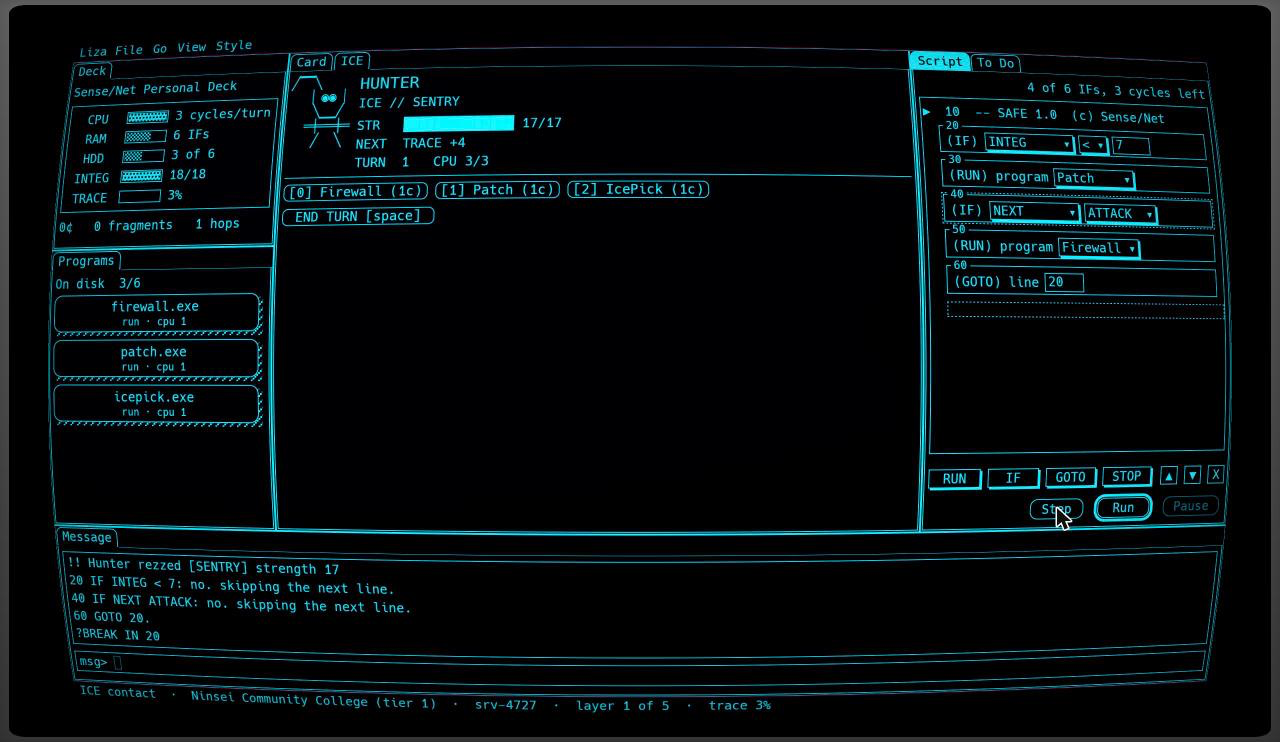
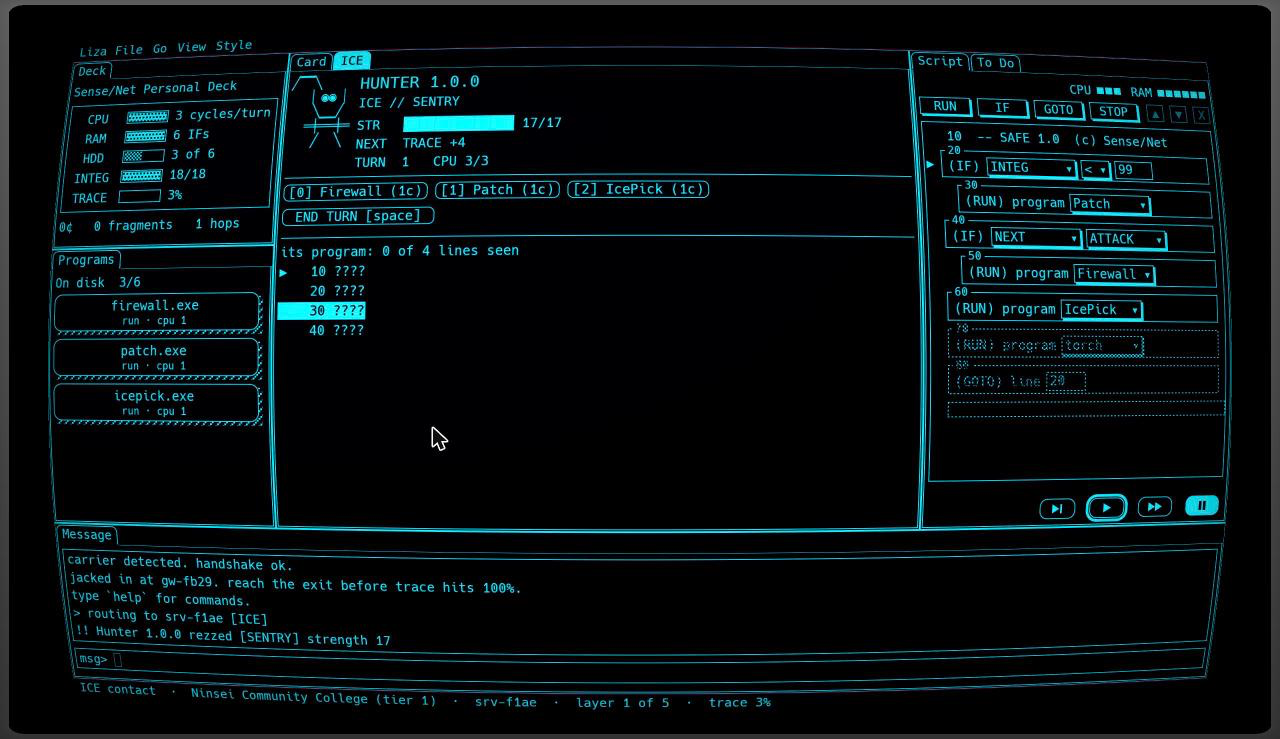
docs: step 5 — docs and shots
The docs say what the card now does and the shots show it: the Sense/Net's Script card in a
fight on paper white and on Synthwave (VGA), paused with starved lines greyed and the IFs'
lines indented, and again with fast-forward held.

diff --git a/crates/app/src/stack.rs b/crates/app/src/stack.rs
@@ -2,7 +2,8 @@
 //! field of meters that fill with darker patterns as they rise, programs are rounded buttons
 //! with a hatched shadow, the terminal is the Message box under a scrolling log field, and a
 //! fight puts the Script card under the ICE: the deck's program as a stack of operator blocks
-//! with fields, after HyperCard 1.2's button script editor, and Step, Run and Pause. What the
+//! with fields, after HyperCard 1.2's button script editor, under its CPU and RAM gauges, and a
+//! hi-fi's transport (Step, Play, fast-forward, Pause). What the
 //! card shows is core's (`ninsei_core::stack_fight`); this only draws it and routes edits. Two
 //! theme colours (lit ink on dark paper); anything it doesn't draw is Classic.
 

diff --git a/docs/architecture.md b/docs/architecture.md
@@ -92,7 +92,7 @@ Monitors and decks live in `data/hub/hardware.ron` (`HardwareDef::validate`); wh
 
 ## The run screen
 
-- **Chromes are plug-ins.** A firmware's `hardware::Chrome` picks how the run screen is dressed; `crates/app/src/chrome.rs` maps it to a `ChromeView` (`chrome::view`): one method per pane, plus tab titles, menus (arranged from shared `MenuPart`s), the status line, an optional bar over the panes, under the menu bar, keys, an overlay and the default layout. Every method defaults to Classic, so a new chrome is a `Chrome` variant plus a `ChromeView` that overrides only what it changes. Never test the chrome in a pane; ask the view. `btop.rs` (`Chrome::Btop`), `suite.rs` (`Chrome::Suite`, the Hosaka) and `stack.rs` (`Chrome::Stack`, the Sense/Net: HyperCard, 1-bit; `ChromeView::one_bit` keeps glitches from splitting colour, `ChromeView::palette` folds the run to ink on paper, `ChromeView::dock_style` dresses the panels as HyperCard windows, and its **Script pane** is the **Script card**, on screen the whole run beside the ICE card: `ninsei_core::stack_fight::card` decides it (with `Card::fighting` and `Card::budget_words`: the budgets left this turn in a fight, the deck's limits a turn outside one, where Step, Run and Pause stay greyed; `Card::broke_words`, a hang's `?BREAK IN n` at the title line's left, or on a row of its own above when the two don't fit) (the program's lines as `Block`s with their `Field`s, pop-up menus that list only the disk and number fields, the ▶ on the line about to run, which of Step, Run and Pause can be pressed, and the budgets in words), and `stack_fight::{set_field, add, insert_before, remove, swap}` turn an edit into one `Action::Program` with one line rewritten, so the card holds nothing of its own; `stack.rs` only draws it with the Liza kit (`popup_menu`, `text_field`, `dotted`, `push_button`), scrolling rows of their own heights a whole row at a time, a palette chip clicked or dragged (egui's drag and drop, `BlockKind` the payload) to add a block, a click on a block selecting it (view state in egui memory, by line number, dropped when the line goes) for the palette's move and clear boxes (`stack_fight::moved_to` says where a moved block lands, so the selection follows it), the Deck card's bars sized to the column (`bar_width`), and its keys through `ChromeView::keys` before the shared hotkeys: Enter presses Run, Esc pauses a running program and never closes anything) are the three so far; the suite's Script pane is the **`PROC-7.BAS` Module window** (`suite_script`): Turbo Debugger's listing over a Watches strip in one `suite::window_with` (its double rule lit while active, `CPU 3/3  RAM 6/6` in its bottom edge, a hang's `?BREAK IN n` after it, cut first on a narrow window), from core's `suite::{module_mark, module_note, watches}`; its F-keys come from core's `suite::Legend::keys`, one table for the legend and the keys, swapped to the Module window's (F2 Edit, F4 Pause, F8 Step, F9 Run) while it holds the keys and back to the suite's (F4 Hex, F8 Jack) otherwise, `suite::fkey_live` dimming a key that presses nothing; its F3 Insert and Backspace open and delete a line on a keyboard with no Ins or Del; a click on its legend gives the window its keys back the next frame (and F2 or F3 there opens the retype then), and while a line is retyped the window stays active and no F-key acts; F-keys act on a fresh press, never a repeat; the steps of a pass the interpreter says (IF, GOTO, STOP, a break, the end of the turn) are `LogKind::Program` lines, filed as `PRG` in its activity log, and a RUN's row is the program's own (`OK`, `MSG` or `ERR`); the suite's rules (sheet sorting, formulas, axes, work-order totals, dialogs via `suite::Watch`) live in core's `suite.rs`. Both text decks' Script panes are **listings** on the kit's `kit::listing::Listing`, decided by core's `listing` (rows with their gutter marks and faults, which debugger and editor keys press, the cursor's home and moves, a new line's number through `basic::Program::free_line_between`, and every edit as one `Action::Program` with one line rewritten): the listing keeps the pane's focus id and view state (cursor, a `kit::List` window, the line being retyped), takes its keys through a deck's `Bind` table, drops the typing the pane holds the keys for, and puts a `ninsei_term` line editor over a retyped row; each deck only draws the rows in its look and names its keys. The btop chrome's **Script pane** is the **`ice.bas` tile** (`btop::script`), on screen the whole run in the right column of its three-column default layout (deck.sys over warez/, the map, `ice.bas` in front of todo, over the terminal; `chrome::three_columns` lays that shape out for every deck, each passing its `Shares`): btop's words come from `ninsei_core::btop_fight` (`TITLE`, `note`: `cpu 2/3  ram 6/6`, the deck's limits outside a fight, a hang's `?break in n` after it, cut first on a narrow tile; `mark`: `▶` and `●`; `legend(&Keys)`: the two rows of keys at the tile's foot, lit while they press), and the rest from core's `listing`. The tile draws inside `Listing::show` in a `btop::boxed_lit` box (its border lit while it has the keys) and binds its letters through `Listing::keys` (`r s c p`, `j k` or the arrows, `e`/Enter, `o`, `d`, Esc), read in `ChromeView::keys` before the shared hotkeys and only while it has the focus; `ChromeView::script_has_keys` tells the shared hotkeys a pane holds the keys without typing, so Space and the digits still work the hotbar. The btop chrome (`crates/app/src/btop.rs`) keeps its timings in `btop::anim` and colours its gradients with `btop::ramp` (`faint → dim → fg → bright`); dot-graph maths is `history::plot`, tested in core; the font has no braille, so the app paints the dots. Both chromes lay their frames out on the kit's cells in their own 12pt type: btop's boxes (`btop::boxed`: the border through the outer cells, the title turned into the top edge `┐title┌` and a note turned up into the bottom one `┘note└`, both cut with `…` to fit, the body 10px and 12px inside the line as before, and always drawn, however small the box) meters (`Cells::gauge` with dotted unlit cells: a little thinner than the old meter and square-cornered, the kit's cell) and the warez table, whose NAME is as wide as the widest real name, dropping CPU before it would slice one; the suite's document window (`suite::window`: the kit's double frame with `[■]` and `[n]` set in its top edge, a heading row only for a document's own title, never repeating its tab, a 5px shadow, and the body always drawn), its status line and F-key legend (one-row kit sheets), its dialogs' bodies (a sheet, lines wrapped), its activity log (whole rows of cells through `ScrollArea::show_rows`, only the rows in view painted), and its spreadsheet, whose columns come from core's `suite::sheet_widths` (each its widest real value and its header with a sort arrow, a cell of padding either side), so nothing is cut at a clip rect.
+- **Chromes are plug-ins.** A firmware's `hardware::Chrome` picks how the run screen is dressed; `crates/app/src/chrome.rs` maps it to a `ChromeView` (`chrome::view`): one method per pane, plus tab titles, menus (arranged from shared `MenuPart`s), the status line, an optional bar over the panes, under the menu bar, keys, an overlay and the default layout. Every method defaults to Classic, so a new chrome is a `Chrome` variant plus a `ChromeView` that overrides only what it changes. Never test the chrome in a pane; ask the view. `btop.rs` (`Chrome::Btop`), `suite.rs` (`Chrome::Suite`, the Hosaka) and `stack.rs` (`Chrome::Stack`, the Sense/Net: HyperCard, 1-bit; `ChromeView::one_bit` keeps glitches from splitting colour, `ChromeView::palette` folds the run to ink on paper, `ChromeView::dock_style` dresses the panels as HyperCard windows, and its **Script pane** is the **Script card**, on screen the whole run beside the ICE card: `ninsei_core::stack_fight::card` decides it (with `Card::fighting` and `Budgets::gauges`: the CPU and RAM gauges as (label, left, most), drained this turn in a fight and full outside one, where the transport stays greyed; `Card::broke_words`, a hang's `?BREAK IN n` at the title line's left, or on a row of its own above when the two don't fit) (the program's lines as `Block`s with their `Field`s, pop-up menus that list only the disk and number fields, the ▶ on the line about to run, `Block::starved` from `Game::starved` (the turn's forecast: the rest of the pass played on a clone of the game through `Game::line`, so it draws nothing from the game's RNG and every RUN resolves through the preview; what the pass skips or never reaches for want of cycles or GB, and RUNs that can never run on this deck), `Block::depth` (the IFs in a row directly above it), and `Buttons`: which of the transport's `Transport`s (Step, Play, fast-forward, Pause) can be pressed and which one is `latched`, held in. Fast-forward is `Action::FastForward` and `Exec::fast`, read as `Game::fast_forward`; the app's `drive_program` steps at `FF_LINE_SECS` while it holds, the same `Action::Step`s as at `LINE_SECS`), and `stack_fight::{set_field, add, insert_before, remove, swap}` turn an edit into one `Action::Program` with one line rewritten, so the card holds nothing of its own; `stack.rs` only draws it with the Liza kit (`popup_menu`, `text_field`, `dotted`, `icon_button` for the transport's painted icons with the held one drawn down, `grey_out` for a starved block), top to bottom the gauges, the palette, the blocks and the transport, scrolling rows of their own heights a whole row at a time, a palette chip clicked or dragged (egui's drag and drop, `BlockKind` the payload) to add a block, a click on a block selecting it (view state in egui memory, by line number, dropped when the line goes) for the palette's move and clear boxes (`stack_fight::moved_to` says where a moved block lands, so the selection follows it), the Deck card's bars sized to the column (`bar_width`), and its keys through `ChromeView::keys` before the shared hotkeys: Enter presses Run, Esc pauses a running program and never closes anything) are the three so far; the suite's Script pane is the **`PROC-7.BAS` Module window** (`suite_script`): Turbo Debugger's listing over a Watches strip in one `suite::window_with` (its double rule lit while active, `CPU 3/3  RAM 6/6` in its bottom edge, a hang's `?BREAK IN n` after it, cut first on a narrow window), from core's `suite::{module_mark, module_note, watches}`; its F-keys come from core's `suite::Legend::keys`, one table for the legend and the keys, swapped to the Module window's (F2 Edit, F4 Pause, F8 Step, F9 Run) while it holds the keys and back to the suite's (F4 Hex, F8 Jack) otherwise, `suite::fkey_live` dimming a key that presses nothing; its F3 Insert and Backspace open and delete a line on a keyboard with no Ins or Del; a click on its legend gives the window its keys back the next frame (and F2 or F3 there opens the retype then), and while a line is retyped the window stays active and no F-key acts; F-keys act on a fresh press, never a repeat; the steps of a pass the interpreter says (IF, GOTO, STOP, a break, the end of the turn) are `LogKind::Program` lines, filed as `PRG` in its activity log, and a RUN's row is the program's own (`OK`, `MSG` or `ERR`); the suite's rules (sheet sorting, formulas, axes, work-order totals, dialogs via `suite::Watch`) live in core's `suite.rs`. Both text decks' Script panes are **listings** on the kit's `kit::listing::Listing`, decided by core's `listing` (rows with their gutter marks and faults, which debugger and editor keys press, the cursor's home and moves, a new line's number through `basic::Program::free_line_between`, and every edit as one `Action::Program` with one line rewritten): the listing keeps the pane's focus id and view state (cursor, a `kit::List` window, the line being retyped), takes its keys through a deck's `Bind` table, drops the typing the pane holds the keys for, and puts a `ninsei_term` line editor over a retyped row; each deck only draws the rows in its look and names its keys. The btop chrome's **Script pane** is the **`ice.bas` tile** (`btop::script`), on screen the whole run in the right column of its three-column default layout (deck.sys over warez/, the map, `ice.bas` in front of todo, over the terminal; `chrome::three_columns` lays that shape out for every deck, each passing its `Shares`): btop's words come from `ninsei_core::btop_fight` (`TITLE`, `note`: `cpu 2/3  ram 6/6`, the deck's limits outside a fight, a hang's `?break in n` after it, cut first on a narrow tile; `mark`: `▶` and `●`; `legend(&Keys)`: the two rows of keys at the tile's foot, lit while they press), and the rest from core's `listing`. The tile draws inside `Listing::show` in a `btop::boxed_lit` box (its border lit while it has the keys) and binds its letters through `Listing::keys` (`r s c p`, `j k` or the arrows, `e`/Enter, `o`, `d`, Esc), read in `ChromeView::keys` before the shared hotkeys and only while it has the focus; `ChromeView::script_has_keys` tells the shared hotkeys a pane holds the keys without typing, so Space and the digits still work the hotbar. The btop chrome (`crates/app/src/btop.rs`) keeps its timings in `btop::anim` and colours its gradients with `btop::ramp` (`faint → dim → fg → bright`); dot-graph maths is `history::plot`, tested in core; the font has no braille, so the app paints the dots. Both chromes lay their frames out on the kit's cells in their own 12pt type: btop's boxes (`btop::boxed`: the border through the outer cells, the title turned into the top edge `┐title┌` and a note turned up into the bottom one `┘note└`, both cut with `…` to fit, the body 10px and 12px inside the line as before, and always drawn, however small the box) meters (`Cells::gauge` with dotted unlit cells: a little thinner than the old meter and square-cornered, the kit's cell) and the warez table, whose NAME is as wide as the widest real name, dropping CPU before it would slice one; the suite's document window (`suite::window`: the kit's double frame with `[■]` and `[n]` set in its top edge, a heading row only for a document's own title, never repeating its tab, a 5px shadow, and the body always drawn), its status line and F-key legend (one-row kit sheets), its dialogs' bodies (a sheet, lines wrapped), its activity log (whole rows of cells through `ScrollArea::show_rows`, only the rows in view painted), and its spreadsheet, whose columns come from core's `suite::sheet_widths` (each its widest real value and its header with a sort arrow, a cell of padding either side), so nothing is cut at a clip rect.
 - **The sound pop-out is the chrome's.** Every run screen has one control for the sound: the level (`Save::volume`, a percentage, full by default) and the switch (`Save::sound`, the same one the System app shows). `crates/app/src/volume.rs` holds what's shared: `volume::Level` read from the save, `volume::Popup` (open, and what was set when it opened, so a Cancel can put it back), `Level::to` turning a change into `Request::Volume` and `Request::SoundOn`, and `volume::start`/`volume::keys`, which take the keyboard from the command line while it's open (the run's hotkeys, the chrome's keys and the terminal's focus all stand back; however it closes, the command line gets the keys back). It never opens over something that already has the keyboard (`App::modal_up`: a BBS, a conversation, a suite notice), and one of those coming up closes it. `volume::hit` names a control drawn in cells or pixels. The chrome opens and dresses it: a `MenuPart::Sound` item worded by `ChromeView::sound_item`, and `ChromeView::sound`, drawn over the overlay while it's open. The classic default is a small window with a slider; btop puts a bar-module speaker in its status line (`ChromeView::status_extra`, which gets a `FrameCx` and returns requests) that opens a box of whole cells over it; the suite has Edit > Sound..., a dialog with OK and Cancel, drawn by the same `suite::dialog` and `suite::buttons` as its notices; Liza has View > Control Panel..., the Mac's Speaker Volume slider (0 to 7) and a Sound box in a striped window (`liza::window_frame`). Notches map to the level through core's `hub::volume_notch` and `hub::notch_volume`. The pop-out only pushes requests; `main.rs` applies them to the save and the speaker.
 - **Panes are modular, and secondary panes are owned.** `panes::Tab` lists every pane: `Tab::CORE` are always there; `Tab::SECONDARY` pairs each extra pane with its id in `data/hub/panes.ron` (`PaneDef`). A secondary pane is available when bought in RIG (`Save::buy_pane`, `Save::panes`) or bundled with the firmware (`FirmwareDef::panes`); read it with `Save::has_pane`. A new pane is a variant, an id, a catalog entry and a renderer, dressed by each chrome (`ChromeView::net` is the pattern). `Tab::Script` is a core pane: the deck's program, on screen from a run's first frame, dressed by `ChromeView::script` (the classic dress is the terminal's `prog` listing until a deck designs its own; the Stack's is the Script card, below under Chromes). The two secondary panes so far are `net` (traffic, bundled with Cyberspace 7.0) and `vis` (`Tab::Vis`, sold only): what the speaker is playing, from `Panes::hear`, which calls `Speaker::listen` only when a vis pane is drawn (a tab behind another one never asks), and `vispane::alive` asks for frames only while something is heard. It never reads the game. The maths is core's `scope.rs` (a Hann-weighted radix-2 FFT into bars spaced evenly in pitch, levels in dB, and `ballistics`: bars jump up and fall at `FALL_PER_SEC`). `vispane.rs` has the shared parts: the trace, `bars` (asks for frames only while a bar is still falling, so silence is still), and `held` (numbers take a new reading every `HOLD_SECS`, so they never strobe). btop draws a box of cell columns (`Cells::meter_up`), the suite a SOUND LEVEL REPORT (a form and a band chart in dB), and the Stack chrome (the Sense/Net) a 1-bit Scope card with a dotted ink graticule. The default layout is the chrome's (`ChromeView::default_layout`) with the panes the player has; the player's layout is saved per firmware (keyed by maker and firmware id, so it follows a brand's models) in `Save::layouts` as opaque RON the app writes (`Save::set_layout`/`layout`, core never parses it). Anything that won't read back or lacks a core pane falls back to the default, and panes the player doesn't have are dropped (`parse_layout`).
 - **The network map has three views.** `crates/app/src/netmap.rs` holds what they share (fog, targets, tags, clicks, the hint) and hands off to `netmap_iso.rs` (wireframes over a grid), `netmap_draft.rs` (a flat technical drawing) or `netmap_paint.rs` (a 1-bit picture, nodes filled with patterns from `data/patterns.ron`, two colours only), picked by the deck's firmware (`Save::firmware_def(..).map`). Shapes, symbols and paint fills per node kind are data (`data/netmap.ron`, `MapStyleDef::validate`, paint fills checked against the patterns); meshes, the isometric camera (`Iso`) and node placement (`netview::flat_layout`) live in core (`netview.rs`) and are tested there. Map colours come from the palette: grid `faint`, wires `fg`, fills `dim`, highlights `bright`. Map animation (derez bursts, the jack-in sweep, trace pressure, hover) lives in `netmap::Anim`, remembered in egui's memory rather than the game, with every timing in `netmap::anim`; the hop trail comes from `Game::travelled`.

diff --git a/docs/design.md b/docs/design.md
@@ -159,7 +159,7 @@ The two decks are a start. Each new one should be a new point of view, not a pal
 
 **The Script is a pane, not part of the fight.** It is on screen for the whole run, in its own box, so the program is something you look after between fights as well as during one; Step, Run and Pause only press with ICE in front. Every chrome dresses the one Script pane (until a deck designs its own, it's the terminal's `prog` listing); 141.5 and 141.6 design its dress, not where it lives. The Stack's default layout is three columns over the Message box: the Deck over the Programs on the left (narrow), the Card with ICE and Hex in the centre (widest), the Script in front of To Do on the right (medium; To Do is the least used pane, so it sits behind). The btop chrome starts in the same shape over the terminal: deck.sys over warez/, the map (the fight view in a fight), `ice.bas` in front of todo. So does the suite over its activity log: SYSRES.FRM over WAREZ.WK1, the plan view and the incident report, `PROC-7.BAS` in front of the work orders.
 
-**The idea.** You don't fight ICE by hand. You wrote something that does, and you watch it work. Each deck holds **one program**, kept between runs like the loadout, and every fight opens with it loaded and the cursor on Run. The run screen is already an IDE, so the fight runs like a debugger, gdb's way: Step runs the line under the ▶ and stops on the next, so the ▶ travels down the listing (it never rests on a REM, which isn't a line that does anything); Run plays a line at a time at a pace you can follow (`LINE_SECS`, a display number), turn after turn, until a STOP, a hang or the fight's end; Pause stops wherever it is, partway through a turn too, keeping its place and what the turn has spent, and Step or Run carry on from there (End Turn there ends the turn); Finish (the terminal's `finish`) runs the rest of the turn at once. The hotbar is the manual override; Continue gives the turn back. Ben's call (141.8): a whole pass per press left the ▶ on line 10 before and after, so nothing seemed to run. The program is edited in place, mid-fight if you like; what you leave is what the deck keeps. No window opens, nothing is saved by hand, and there is no library in version 1.
+**The idea.** You don't fight ICE by hand. You wrote something that does, and you watch it work. Each deck holds **one program**, kept between runs like the loadout, and every fight opens with it loaded and the cursor on Run. The run screen is already an IDE, so the fight runs like a debugger, gdb's way: Step runs the line under the ▶ and stops on the next, so the ▶ travels down the listing (it never rests on a REM, which isn't a line that does anything); Run plays a line at a time at a pace you can follow (`LINE_SECS`, a display number; fast-forward, where a deck has it, is `FF_LINE_SECS`, the same lines sooner), turn after turn, until a STOP, a hang or the fight's end; Pause stops wherever it is, partway through a turn too, keeping its place and what the turn has spent, and Step or Run carry on from there (End Turn there ends the turn); Finish (the terminal's `finish`) runs the rest of the turn at once. The hotbar is the manual override; Continue gives the turn back. Ben's call (141.8): a whole pass per press left the ▶ on line 10 before and after, so nothing seemed to run. The program is edited in place, mid-fight if you like; what you leave is what the deck keeps. No window opens, nothing is saved by hand, and there is no library in version 1.
 
 **The language is BASIC**, line-numbered, with four keywords. Everything else is a program you own, so **the warez are the verbs**: a shield is `RUN firewall`, a class match is `IF ICE CODEGATE` / `RUN decoder`. Nothing in code knows what a shield is.
 
@@ -225,8 +225,8 @@ A reader of the ICE's listing can predict both *when* and *where* (Archer SPOOFs
 | | Sense/Net | Ono-Sendai | Hosaka |
 |---|---|---|---|
 | reference | HyperCard 1.2's button script editor and the Home stack, 1-bit | gdb's TUI in a btop box, with the C64 screen editor's way of retyping a line | Turbo Debugger 2.0: the Module window, Watches, F-keys |
-| the program | ✅ a **stack of operator blocks** (RUN, IF, GOTO, STOP) dragged in from a palette row, each with fields for its parameters; a program menu lists only the disk; the ▶ in the gutter is the line about to run; a click selects a block (a dotted marquee) and the palette's ▲ ▼ X move or clear it, as HyperCard's Objects did, so a row is only the block and fits a ~340px column | ✅ `ice.bas`: the listing in a btop box on whole cells, the line about to run lit with ▶ in the gutter, a STOP's ●, a bad line dim with its fault after it, the cursor in inverse while the tile has the keys, `cpu 2/3  ram 4/6` cut into the bottom edge (the deck's limits outside a fight); a line is retyped where it stands, C64 style, with the terminal's line editor; the keys at the tile's foot, lit while they press | ✅ `PROC-7.BAS` in a Module window on the suite's cells: the line about to run in inverse with ▶, a STOP's ■ in the gutter, a bad line dim with its fault after it, the cursor boxed while the window is active (its double rule lit), `CPU 3/3  RAM 6/6` in the bottom edge; a line is retyped as a field in its row |
-| the debugger | the button row under the palette row: Step (a line), Run, Pause, as rounded Mac buttons; a hang's `?BREAK IN n` at the left of the card's title line | ✅ the terminal is the prompt (the pass prints there; `step` a line, `finish` the rest of the turn, `play`, `pause`, `prog` are its commands; a hang's `?break in n` is cut into the tile's bottom edge), no box of its own; with the tile focused (a click; Esc gives the keys back): `r` run, `s` step, `c` continue, `p` pause, `j`/`k` or arrows move, `e`/Enter retype, `o` open a line, `d` delete; Space and the digits stay the hotbar's; the terminal types whenever the tile isn't focused | ✅ the Watches under the listing in the same window (TURN, CPU, IFS, INTEG, TRACE, NEXT, ICE, LAST: the last step as the log said it; blank outside an incident); a click makes the window active and the F-key legend (under the menu bar, not along the bottom as in Turbo Debugger: its keys are buttons, and up there they're seen) becomes the debugger's, Turbo Debugger's way: F1 Help, F2 Edit, F3 Insert, F4 Pause, F8 Step (Turbo Debugger's own), F9 Run (and carry on after a STOP), F10 End turn, with ↑ ↓, Enter, Ins, Del (or Backspace, a Mac's delete) and Esc; with another window active, F4 Hex and F8 Jack as before. Never F5, F6, F7, F11, F12 (F7 is caret browsing); keys that press nothing now are dim on the legend |
+| the program | ✅ a **stack of operator blocks** (RUN, IF, GOTO, STOP) dragged in from the palette row at the top of the card, each with fields for its parameters; a program menu lists only the disk; the ▶ in the gutter is the line about to run; a block an IF guards sits one indent in under it (two IFs in a row nest), the indent giving way in a column too narrow for it; a line the turn won't execute is greyed as the Mac greyed a disabled item, from the turn's start (a dry run of the pass on a copy of the game, `Game::starved`: a RUN with no cycles left for it, the lines after the pass runs out of cycles or GB, a program not on the disk), with no words to say why, and stays selectable and editable; a line behind a false IF is not greyed; a click selects a block (a dotted marquee) and the palette's ▲ ▼ X move or clear it, as HyperCard's Objects did, so a row is only the block and fits a ~340px column | ✅ `ice.bas`: the listing in a btop box on whole cells, the line about to run lit with ▶ in the gutter, a STOP's ●, a bad line dim with its fault after it, the cursor in inverse while the tile has the keys, `cpu 2/3  ram 4/6` cut into the bottom edge (the deck's limits outside a fight); a line is retyped where it stands, C64 style, with the terminal's line editor; the keys at the tile's foot, lit while they press | ✅ `PROC-7.BAS` in a Module window on the suite's cells: the line about to run in inverse with ▶, a STOP's ■ in the gutter, a bad line dim with its fault after it, the cursor boxed while the window is active (its double rule lit), `CPU 3/3  RAM 6/6` in the bottom edge; a line is retyped as a field in its row |
+| the debugger | the transport alone at the card's foot, a hi-fi's row of rounded buttons with painted icons (as TRAX draws them): Step (▶\|, a line), Play (▶, Run, the default), fast-forward (▶▶) and Pause (‖); the one held in is drawn down: Pause while paused, Play while playing, FF while playing fast; FF stays in until it (back to the pace) or another button is clicked, and pops up when the program stops (a STOP, a hang, the fight's end); it changes only the pace (`FF_LINE_SECS`), never what runs; the card's title line is two gauges, `CPU` a block per cycle and `RAM` a block per IF, filled for what's left this turn and full outside a fight, no numbers beside them (stacked on two rows in a narrow column); a hang's `?BREAK IN n` at its left | ✅ the terminal is the prompt (the pass prints there; `step` a line, `finish` the rest of the turn, `play`, `pause`, `prog` are its commands; a hang's `?break in n` is cut into the tile's bottom edge), no box of its own; with the tile focused (a click; Esc gives the keys back): `r` run, `s` step, `c` continue, `p` pause, `j`/`k` or arrows move, `e`/Enter retype, `o` open a line, `d` delete; Space and the digits stay the hotbar's; the terminal types whenever the tile isn't focused | ✅ the Watches under the listing in the same window (TURN, CPU, IFS, INTEG, TRACE, NEXT, ICE, LAST: the last step as the log said it; blank outside an incident); a click makes the window active and the F-key legend (under the menu bar, not along the bottom as in Turbo Debugger: its keys are buttons, and up there they're seen) becomes the debugger's, Turbo Debugger's way: F1 Help, F2 Edit, F3 Insert, F4 Pause, F8 Step (Turbo Debugger's own), F9 Run (and carry on after a STOP), F10 End turn, with ↑ ↓, Enter, Ins, Del (or Backspace, a Mac's delete) and Esc; with another window active, F4 Hex and F8 Jack as before. Never F5, F6, F7, F11, F12 (F7 is caret browsing); keys that press nothing now are dim on the legend |
 | the trace | the Message box, a sentence per line | a terminal line | an activity-log row with a reference number |
 
 **Set aside.** `SHIELD`, `SCRUB` and `BEST BREAKER` as keywords (the warez are the verbs); a breakpoints pane (STOP is a line; a gutter mark is a view of it, never a second mechanism); downloaded editor and debugger (they are the deck's own software, dressed per chrome; "tools are downloaded" stays about the desktop's apps); a program library (deferred); a pure deckbuilder or puzzle fights without automation.
